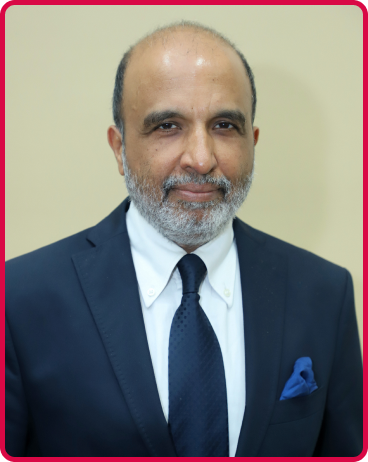
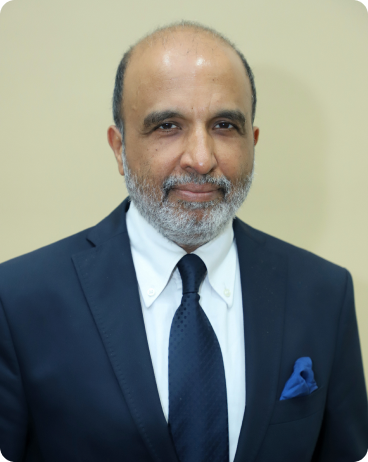
Rajani169 chief guest (#8)
* fix: logo styling

* fix: navbar indexing

* fix: styling our chief guest

Changed region(s): [[0.0, 0.0, 1.0, 1.0]]

diff --git a/src/components/sections/home/ourChiefGuest.js b/src/components/sections/home/ourChiefGuest.js
@@ -6,32 +6,60 @@ import Button from '@material-ui/core/Button'
 import { makeStyles } from '@material-ui/core'
 import classnames from 'classnames'
 import Fade from 'react-reveal/Fade'
-import { useTheme } from '@material-ui/core/styles'
+import chiefGuestData from '../../../data/chiefGuest'
 
 const useStyles = makeStyles(theme => ({
+  imageContainer: {
+    width: '300px',
+    height: '400px',
+    position: 'relative',
+    '&:hover > img': {
+      border: `5px solid #fff`,
+      transition: '1s',
+    },
+    '&:hover > div ': {
+      backgroundColor: '#ffffff91',
+      transition: '1s',
+    },
+    '&:hover > div > h5, &:hover > div > h6': {
+      color: '#000929',
+      fontWeight: 'bold',
+      transition: '1s',
+    },
+  },
+  image: {
+    height: '400px',
+    borderRadius: '15px',
+    border: `5px solid ${theme.palette.primary.main}`,
+  },
   layer: {
     backgroundColor: 'rgba(217, 8, 69, 0.7)',
-    position: 'relative',
-    paddingTop: '20px',
+    position: 'absolute',
     bottom: 0,
+    borderRadius: '0px 0px 15px 15px',
   },
   content: {
     color: '#fff',
-    lineHeight: '30px',
     [theme.breakpoints.up('md')]: {
       fontSize: '1rem',
     },
     [theme.breakpoints.up('lg')]: {
       fontSize: '1.2rem',
     },
+    '&:hover': {
+      '-webkit-text-stroke': `1px ${theme.palette.primary.main}`,
+      transition: '0.5s',
+      transitionTimingFunction: 'ease-out',
+      fontWeight: 'bold',
+    },
   },
 }))
 
 const OurChiefGuest = () => {
+  console.log(chiefGuestData)
   const classes = useStyles()
-  const theme = useTheme()
   return (
-    <div>
+    <div className='h-full'>
       <Fade bottom cascade>
         <Typography className='text-white pt-10' variant='h4'>
           Our Chief Guests
@@ -42,21 +70,25 @@ const OurChiefGuest = () => {
           alt='---------------------'
         />
       </Fade>
-      <Grid container className='h-full' alignContent='center'>
-        <Grid container justify='center'>
+      {chiefGuestData.map(data => (
+        <Grid key={data.name} container justify='center' alignItems='center'>
           <Grid item md={4} xs={12}>
             <Fade bottom>
-              <div className={classnames(['text-center mx-auto'])}>
+              <div className={classnames(['mx-auto', classes.imageContainer])}>
                 <img
-                  src='images/SanjayJha.png'
-                  className='w-56 h-full mt-12 mx-auto lg:m-0'
+                  src={data.image}
+                  alt={data.name}
+                  className={classnames(['w-full'], classes.image)}
                 />
-                <div className={classnames(['w-56', classes.layer])}>
+                <div className={classnames(['w-full p-2', classes.layer])}>
                   <Typography variant='h5' className='text-white'>
-                    Sanjay Jha
+                    {data.name}
                   </Typography>
                   <Typography variant='subtitle1' className='text-white'>
-                    National Spokesman INC
+                    {data.designation}
+                  </Typography>
+                  <Typography variant='subtitle1' className='text-white'>
+                    {data.organization}
                   </Typography>
                 </div>
               </div>
@@ -64,39 +96,32 @@ const OurChiefGuest = () => {
           </Grid>
           <Grid item md={6} xs={12}>
             <Fade bottom cascade>
-              <Typography
-                className={classnames([
-                  'text-center p-10 text-justify lg:pt-8 lg:pr-10 lg:pl-0',
-                  classes.content,
-                ])}
-              >
-                Sanjay Jha is the National Spokesperson of INC since 2013, and
-                also the President of All India Professionals Congress,
-                Maharashtra. He has addressed numerous gatherings at world-class
-                business schools and MNCs as a TEDx Speaker, also regularly
-                contributing to social media and internationally acclaimed
-                newspapers. Jha founded CricketNext. com and has also held
-                senior positions at various reputed investment and banking
-                firms. Coming as an MBA graduate from XLRI, Jamshedpur, he holds
-                graduation and PG degrees in Economics from Fergusson College
-                and Gokhale Institute of Politics and Economics respectively.
-                Jha has also co-authored a leadership bestseller, The Superstar
-                Syndrome.
-              </Typography>
-              <Button
-                type='submit'
-                color='primary'
-                variant='contained'
-                size='large'
-                component={Link}
-                to='/prevChiefGuest'
-              >
-                Our Previous Year Cheif Guests
-              </Button>
+              {data.content.map(content => (
+                <Typography
+                  className={classnames([
+                    'text-justify font-medium p-3',
+                    classes.content,
+                  ])}
+                >
+                  {content}
+                </Typography>
+              ))}
             </Fade>
           </Grid>
         </Grid>
-      </Grid>
+      ))}
+      <div className='mt-10'>
+        <Button
+          type='submit'
+          color='primary'
+          variant='contained'
+          size='large'
+          component={Link}
+          to='/prevChiefGuest'
+        >
+          Our Previous Year Chief Guests
+        </Button>
+      </div>
     </div>
   )
 }

diff --git a/src/pages/index.js b/src/pages/index.js
@@ -6,7 +6,7 @@ import { graphql, useStaticQuery } from 'gatsby'
 import { makeStyles, useTheme } from '@material-ui/core/styles'
 import Typography from '@material-ui/core/Typography'
 import About from '../components/sections/home/about'
-import PreviousYearChiefGuest from '../components/sections/home/ourChiefGuest'
+import ChiefGuest from '../components/sections/home/ourChiefGuest'
 import Registrations from '../components/sections/home/registrations'
 import HomeBlogs from '../components/sections/home/blogs'
 import Committees from '../components/sections/home/committees'
@@ -24,8 +24,8 @@ import Fade from 'react-reveal/Fade'
 
 const useStyles = makeStyles(theme => ({
   munLogo: {
-    height: '180px',
-    [theme.breakpoints.down('md')]: {
+    height: '200px',
+    [theme.breakpoints.down('lg')]: {
       height: '150px',
     },
     [theme.breakpoints.down('sm')]: {
@@ -201,7 +201,7 @@ export default () => {
       >
         <Registrations />
       </div>
-      <div className='flex flex-wrap justify-center h-auto'>
+      <div className='flex flex-wrap justify-center h-auto' id='chief-guest'>
         <Banner
           backgrounds={[
             `linear-gradient(${theme.palette.glare.main}, ${theme.palette.glare.main})`,
@@ -211,7 +211,7 @@ export default () => {
           minHeight={true}
         >
           <div className='py-10'>
-            <PreviousYearChiefGuest />
+            <ChiefGuest />
           </div>
         </Banner>
       </div>

diff --git a/src/data/chiefGuest.js b/src/data/chiefGuest.js
@@ -1,0 +1,16 @@
+const chiefGuest = [
+  {
+    name: 'Sanjay Jha',
+    image: 'images/SanjayJha.png',
+    designation: 'Executive Director',
+    organization: 'Dale Carnegie',
+    content: [
+      'Sanjay Jha is the Executive Director of Dale Carnegie in India. Mr. Jha is also the National Spokesperson of the Indian National Congress Party since 2013. Recently he was appointed as President of All India Professionals Congress, Maharashtra.',
+      'Sanjay has been a TEDx Speaker and has addressed audiences at Dell, Columbia Business School (New York), University of California (Los Angeles), Goldman Sachs, Microsoft, Brookings, The Doon School, etc. He is also a regular contributor to the Huffington Post, National Herald and Yahoo. He is one of India’s top influencers on social media like Twitter.',
+      'Jha founded the popular sports channel CricketNext.Com, and has held senior positions at ITC Threadneedle Asset Management, London, Alliance Capital, New York,  Bank of America and ANZ Grindlays Bank.',
+      'Jha completed his MBA from XLRI, Jamshedpur and his Master’s in Economics from Gokhale Institute of Politics and Economics. He graduated with distinction in Economics from Fergusson College. Jha has also authored a bestseller on leadership called The Superstar Syndrome (The Making Of A Champion), co-authored with Dr. Myra White, who is a Professor at the Harvard Medical School.',
+    ],
+  },
+]
+
+export default chiefGuest

diff --git a/src/components/navbar.js b/src/components/navbar.js
@@ -44,6 +44,7 @@ const useStyles = makeStyles(theme => ({
 const dropdownList = {
   about: [
     { name: 'JECRC MUN', link: '/about', type: 'gatsby' },
+    { name: 'OUR CHIEF GUEST', link: '/#chief-guest', type: 'gatsby' },
     { name: 'OUR SPONSORS', link: '/sponsors', type: 'gatsby' },
   ],
   registrations: [
@@ -158,11 +159,6 @@ function NavBarWeb(props) {
           <Dropdown name='about' handleClose={handleClose} />
         )}
       </ListItem>
-      <ListItem component={Link} to='/#committees' className={classes.navItem}>
-        <Typography variant='subtitle2' className={classes.headerItems}>
-          Committees
-        </Typography>
-      </ListItem>
       <ListItem
         component='div'
         onMouseLeave={handleClose}
@@ -191,6 +187,11 @@ function NavBarWeb(props) {
       >
         <Typography variant='subtitle2' className={classes.headerItems}>
           Blogs
+        </Typography>
+      </ListItem>
+      <ListItem component={Link} to='/#committees' className={classes.navItem}>
+        <Typography variant='subtitle2' className={classes.headerItems}>
+          Committees
         </Typography>
       </ListItem>
       <ListItem component={Link} to='/gallery' className={classes.navItem}>

diff --git a/src/components/sections/home/committees.js b/src/components/sections/home/committees.js
@@ -7,7 +7,10 @@ import Grid from '@material-ui/core/Grid'
 import Tabs from '@material-ui/core/Tabs'
 import Tab from '@material-ui/core/Tab'
 import Typography from '@material-ui/core/Typography'
+import Button from '@material-ui/core/Button'
 import classnames from 'classnames'
+import { Link } from 'gatsby'
+
 import Fade from 'react-reveal/Fade'
 import {
   Committe,
@@ -133,6 +136,15 @@ function CountryMatrix() {
           </div>
         </CardContent>
       </Card>
+      <Button
+        component={Link}
+        variant='contained'
+        color='primary'
+        size='large'
+        to='/country-matrix'
+      >
+        View Country Matrix
+      </Button>
     </>
   )
 }

diff --git a/src/pages/prevChiefGuest.js b/src/pages/prevChiefGuest.js
@@ -84,7 +84,7 @@ function PreviousYearChiefGuest() {
           component='h2'
           className={classes.munTextProperty}
         >
-          OUR SPONSORS
+          Our Previous Year Chief Guests
         </Typography>
         <Typography className='text-white' variant='h5'>
           JECRC MUN 2020

diff --git a/src/components/mobileDrawer.js b/src/components/mobileDrawer.js
@@ -89,6 +89,7 @@ function MobileViewDrawer(props) {
             link: '/#about',
             items: [
               { name: 'JECRC MUN', to: '/about' },
+              { name: 'OUR CHIEF GUEST', to: '/#chief-guest' },
               { name: 'OUR SPONSORS', to: '/sponsors' },
             ],
           },
